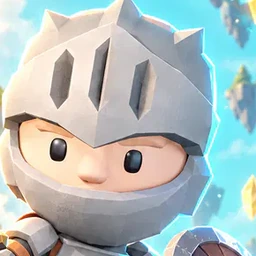
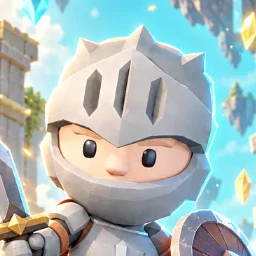
fix: ubral znamiyona baz (serye treugolniki) i obnovil lica geroyev

diff --git a/docs/ПРОЕКТ.md b/docs/ПРОЕКТ.md
@@ -526,6 +526,7 @@ godot --headless --path . res://scenes/Lobby.tscn --quit-after 4
 
 - Центр арены очищен от алтарного кристалла, пьедестала и короны; на площади стоит манекен-воин, который не атакует.
 - Убраны декоративные кристаллы-осколки на базах и в центре; остался только игровой Осколок.
+- Убраны знамёна баз (`BaseBanner`, `BaseBackBanner`): вблизи камеры их полотнища читались как серые треугольники. Колонны и факелы баз оставлены.
 - В обучении после трёх способностей сразу появляется Осколок и подсказка «Возьми осколок»; этапы фонтана и магазина в обучении пропущены.
 - Убраны тёмные пятачки под кустами; монеты фонтана подняты на 0.45, чтобы не уходить под траву.
 - Добавлена страница `tools/face_cropper.html` для ручного кропа лиц: три героя, превью лобби/бой/поиск, экспорт PNG 256×256.
